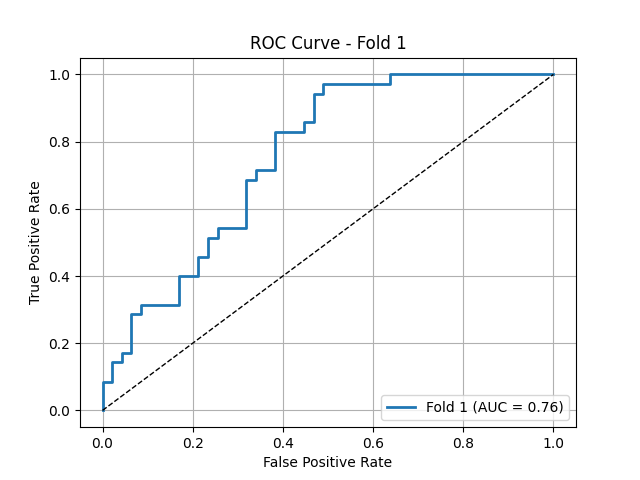
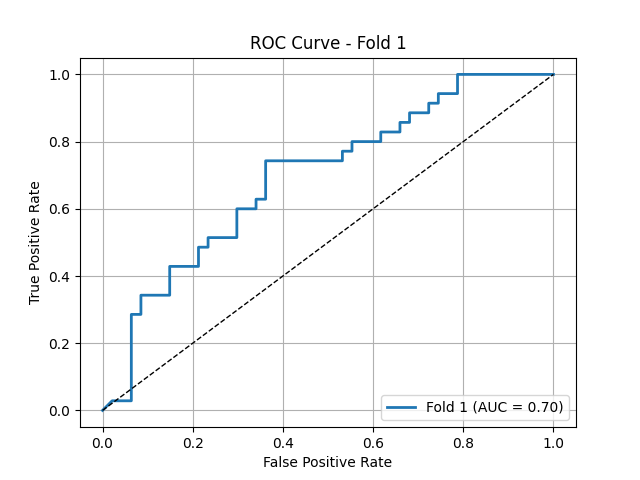
four paralllel model combined

diff --git a/models.py b/models.py
@@ -232,6 +232,7 @@ class BinaryClassification(pl.LightningModule):
         self.boundary_encoder = MyEncoder()
         self.center_encoder = MyEncoder()
         
+        self.output_size = 5 
         if radiomics:  
             self.linear_radiomics = FCNetwork(input_size= radiomics_dim, hidden_sizes=[128, 64, 64], output_size= 32)  
             self.linear_radiomics_tail = FCNetwork(input_size= 32, hidden_sizes=[32, 32, 16], output_size= self.output_size)  
@@ -241,7 +242,10 @@ class BinaryClassification(pl.LightningModule):
             self.linear = FCNetwork(input_size= self.input_size*2, hidden_sizes=self.hidden_sizes, output_size= self.output_size)
             self.linear_trainable = FCNetwork(input_size= self.input_size, hidden_sizes=self.hidden_sizes2, output_size= self.output_size)   
             self.linear_boundary = FCNetwork(input_size= self.input_size, hidden_sizes=self.hidden_sizes, output_size= self.output_size)
-            self.linear_center = FCNetwork(input_size= self.input_size, hidden_sizes=self.hidden_sizes, output_size= self.output_size)   
+            self.linear_center = FCNetwork(input_size= self.input_size, hidden_sizes=self.hidden_sizes, output_size= self.output_size)  
+
+        self.final_layer = FCNetwork(input_size=4*5, hidden_sizes=[20, 12, 5], output_size= 1)
+
 
         self.loss_fn = nn.BCEWithLogitsLoss()  # More stable than BCELoss
         self.accuracy_metric = BinaryAccuracy()  # Accuracy metric using TorchMetrics
@@ -296,15 +300,13 @@ class BinaryClassification(pl.LightningModule):
     def _common_step(self, batch, batch_idx):
         if len(batch) == 2: 
             x, y = batch 
-            scores1, scores2, scores3, scores4 = self.forward(x)  
-            loss = self.loss_fn(scores1, y.float()) + self.loss_fn(scores2, y.float()) + \
-                            self.loss_fn(scores3, y.float()) + self.loss_fn(scores4, y.float())
+            scores = self.forward(x)  
+            loss = self.loss_fn(scores, y.float()) 
         else: 
             x, x2_rad,  y = batch
             scores, scores2 = self.forward(x, x2_radiomics=x2_rad)  
             loss = self.loss_fn(scores, y.float()) + self.loss_fn(scores2[0], y.float()) + self.loss_fn(scores2[1], y.float())  # Ensure labels are float for BCEWithLogitsLoss
-        scores = torch.median(torch.stack([scores1, scores2, scores3, scores4], dim=0), dim=0).values
-        return loss, scores, y, x 
+        return loss, scores , y, x 
     
     def normalize_sdf(self, sdf_image):
         sdf_image = (sdf_image - sdf_image.min())/(sdf_image.max() - sdf_image.min() + 1e-8)
@@ -319,10 +321,10 @@ class BinaryClassification(pl.LightningModule):
         x_sdf = self.normalize_sdf(x_sdf)
 
         x_boundary = self.boundary_encoder(x*(x_sdf.abs()<.4))
-        x_center = self.center_encoder(x*(x_sdf<.3)) 
+        x_center = self.center_encoder(x*(x_sdf<.1)) 
 
 
-        x = torch.cat((x1, x2.detach()), dim=1)  # Concatenate the outputs from both encoders
+        x = torch.cat((x1, x2), dim=1)  # Concatenate the outputs from both encoders
         x = x.reshape(x.shape[0], -1)
 
         if x2_radiomics is not None:
@@ -330,10 +332,13 @@ class BinaryClassification(pl.LightningModule):
             x = torch.cat((x, x2_radiomics), dim=1)
             return self.linear(x).squeeze(), (self.linear_trainable(x2.reshape(x.shape[0], -1)).squeeze() , self.linear_radiomics_tail(x2_radiomics).squeeze())
         else:   
-            return self.linear(x).squeeze(), self.linear_trainable(x2.reshape(x.shape[0], -1)).squeeze(), \
-                        self.linear_boundary(x_boundary.reshape(x.shape[0], -1)).squeeze(), \
-                        self.linear_center(x_center.reshape(x.shape[0], -1)).squeeze()
-        
+            x =  torch.cat([self.linear(x), self.linear_trainable(x2.reshape(x.shape[0], -1)), \
+                        self.linear_boundary(x_boundary.reshape(x.shape[0], -1)), \
+                        self.linear_center(x_center.reshape(x.shape[0], -1))], dim = 1)  
+            
+        return self.final_layer(x).squeeze()
+
+
 
     def training_step(self, batch, batch_idx):
         loss, scores, y, _ = self._common_step(batch, batch_idx)
@@ -426,9 +431,7 @@ class BinaryClassification(pl.LightningModule):
                     x, y = batch
                     x = x.to(self.device)
                     y = y.to(self.device)
-                    scores1, scores2, scores3, scores4 = self.forward(x) #, radio)
-                    scores = torch.stack([scores1, scores2, scores3, scores4], dim=0)  # shape: (4, ...)
-                    scores = torch.median(scores, dim=0).values  # get only the median values
+                    scores= self.forward(x) #, radio)
                 else: 
                     x, radio, y = batch
                     x = x.to(self.device)
